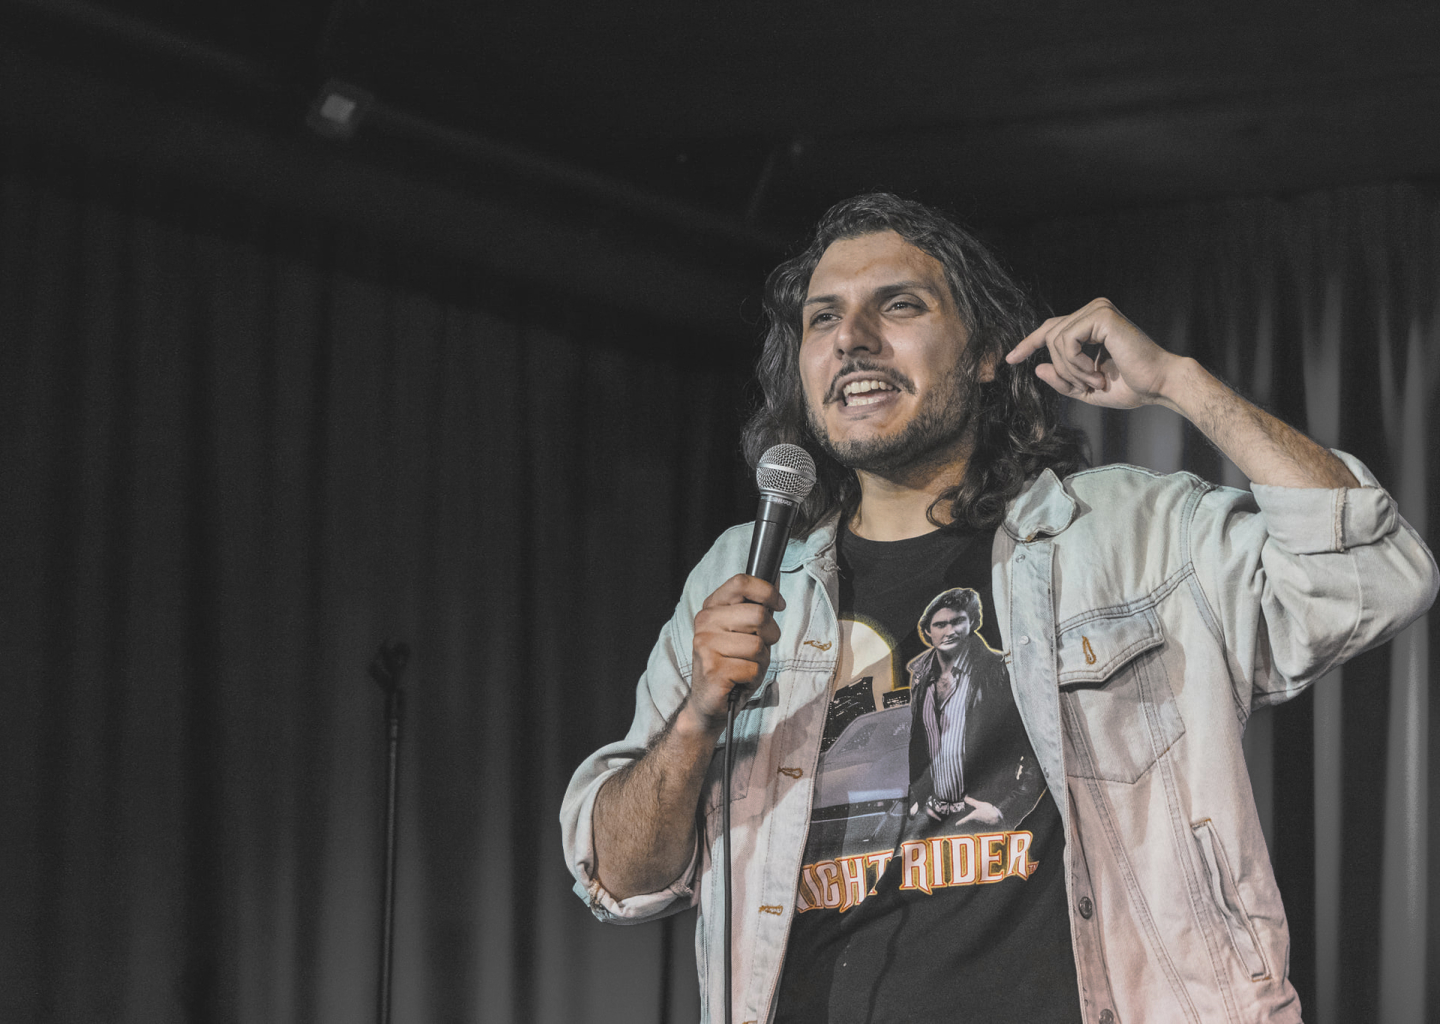
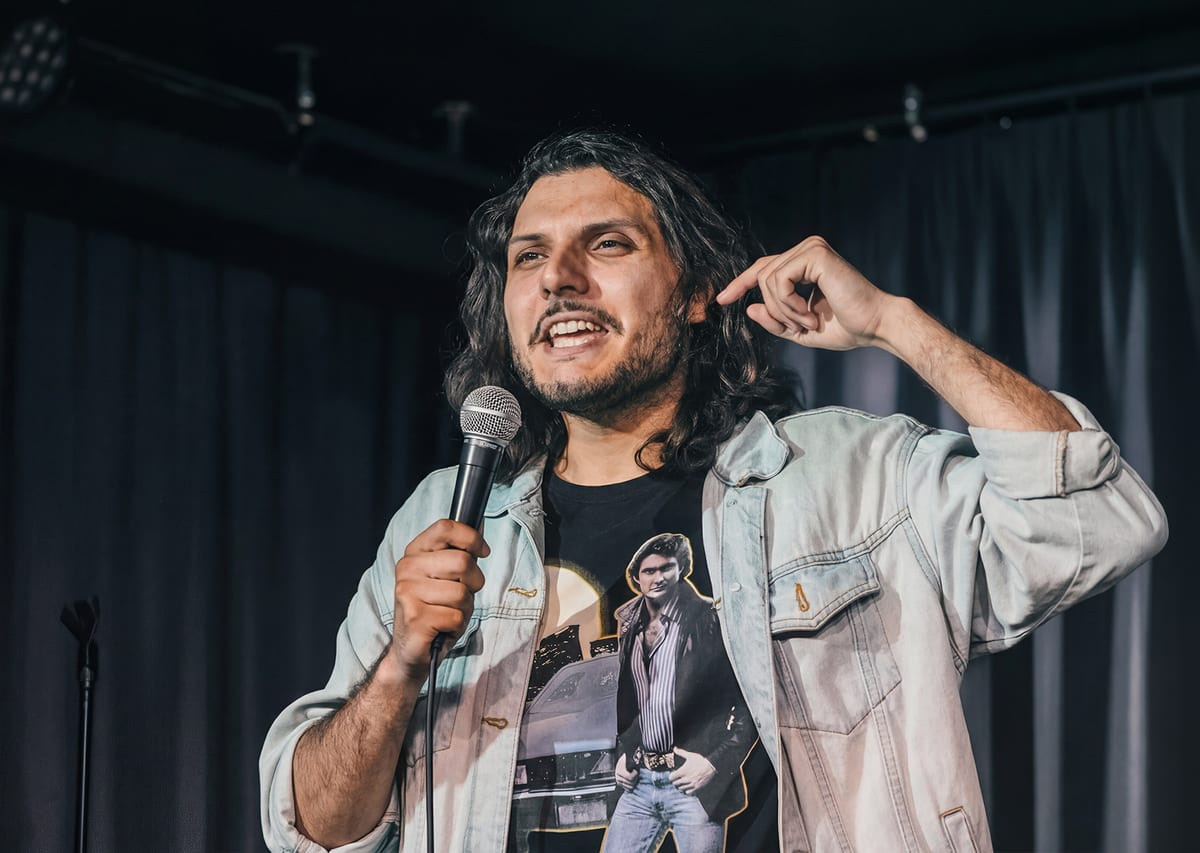
Екран успіху, оптимізація фото, секція «про Єгора» на адаптивах
- checkout: повний екран успіху (номер замовлення + email-підтвердження),
  прокрутка нагору при показі
- сольники: на планшеті картка 2-колонкова (постер зліва, текст справа), не стек
- статистика: 3 показники в один рядок рівними колонками (телефон + планшет)
- хедер/контакти: дрібні мобільні фікси (раніше)
- фото egor-hero: оптимізовано (1.5МБ → 100КБ), прибрано ч/б фільтр (кольорове),
  лишили лише jpg
- секція «про Єгора» (планшет): більший відступ фото↔текст, фото центроване,
  біо й статистика — на всю ширину

diff --git a/css/style.css b/css/style.css
@@ -589,18 +589,27 @@ button { font: inherit; color: inherit; background: none; border: none; cursor: 
   display: flex; gap: 12px; flex-wrap: wrap;
 }
 
-/* мобільний фолбек: вертикальний стек */
+/* планшет/мобільний: горизонтальна листалка стає вертикальним списком карток */
 @media (max-width: 899px) {
   .specials__track {
     flex-direction: column;
     width: auto;
     padding-inline: 24px;
   }
+  .specials__progress { display: none; }
+  /* піни нема, тож відступ перед листалкою дає сам padding */
+  .specials { padding-top: clamp(72px, 11vh, 104px); padding-bottom: 90px; }
+}
+
+/* планшет: картка лишається 2-колонковою (постер зліва, текст справа) і заповнює всю ширину */
+@media (min-width: 641px) and (max-width: 899px) {
+  .card { grid-template-columns: minmax(0, 0.9fr) minmax(0, 1fr); }
+}
+
+/* телефон: вертикальний стек усередині картки (постер зверху, текст знизу) */
+@media (max-width: 640px) {
   .card { grid-template-columns: 1fr; }
   .card__poster { max-width: 420px; }
-  .specials__progress { display: none; }
-  /* мобільний: піна нема, тож більший відступ перед листалкою дає сам padding */
-  .specials { padding-top: clamp(72px, 11vh, 104px); padding-bottom: 90px; }
 }
 
 /* ---------- про Єгора ---------- */
@@ -644,11 +653,8 @@ button { font: inherit; color: inherit; background: none; border: none; cursor: 
   aspect-ratio: 4 / 5;
   object-fit: cover;
   object-position: 60% 20%;
-  filter: grayscale(1) contrast(1.05);
-  transition: filter 0.7s var(--ease-out);
   border-radius: 2px;
 }
-.about__photo:hover img { filter: grayscale(0) contrast(1); }
 .about__photo-frame {
   position: absolute; inset: 0;
   border: 1px solid var(--yellow);
@@ -686,8 +692,18 @@ button { font: inherit; color: inherit; background: none; border: none; cursor: 
   color: var(--muted);
 }
 @media (max-width: 860px) {
-  .about__grid { grid-template-columns: 1fr; }
+  /* одна колонка: фото зверху, текст знизу — більший вертикальний відступ між ними */
+  .about__grid { grid-template-columns: 1fr; row-gap: clamp(72px, 12vw, 100px); }
   .about__photo { max-width: 460px; }
+  /* біо й статистика — на всю ширину текстового блока */
+  .about__bio { max-width: none; }
+  /* 3 показники в один рядок рівними колонками на всю ширину; довгі підписи переносяться */
+  .about__stats { gap: clamp(12px, 2.5vw, 24px); flex-wrap: nowrap; }
+  .about__stats li { flex: 1 1 0; min-width: 0; }
+}
+/* планшет: фото центруємо, текстовий блок лишаємо на всю ширину */
+@media (min-width: 601px) and (max-width: 860px) {
+  .about__photo { justify-self: center; }
 }
 
 /* ---------- тур ---------- */
@@ -1312,7 +1328,18 @@ button { font: inherit; color: inherit; background: none; border: none; cursor: 
 .checkout__done-mark { width: 72px; height: 72px; border-radius: 50%; background: var(--yellow); color: #000; display: grid; place-items: center; font-size: 2rem; font-weight: 800; }
 .checkout__done h2 { font-family: var(--font-display); font-weight: 800; font-size: clamp(1.6rem, 4vw, 2.4rem); text-transform: uppercase; }
 .checkout__done p { color: var(--muted); max-width: 520px; line-height: 1.6; }
+.checkout__done b { color: var(--white); font-family: var(--font-display); font-weight: 600; }
+.checkout__done .checkout__done-lead { color: var(--white); }
+.checkout__done .checkout__done-email {
+  display: inline-flex; align-items: center; justify-content: center; flex-wrap: wrap; gap: 4px 10px;
+  max-width: 100%; text-align: center;
+  padding: 12px 22px; background: var(--bg-2); border: 1px solid var(--line); border-radius: 999px;
+  color: var(--muted); font-size: 0.92rem;
+}
+.checkout__done-email b { overflow-wrap: anywhere; }
+.checkout__done-email__ic { color: var(--yellow); font-size: 1.05rem; line-height: 1; }
 .checkout__done-actions { display: flex; gap: 14px; flex-wrap: wrap; justify-content: center; margin-top: 10px; }
+.checkout__done .checkout__done-note { font-size: 0.76rem; color: var(--muted); opacity: 0.55; margin-top: 2px; }
 @media (max-width: 820px) {
   .checkout { grid-template-columns: 1fr; }
   /* кнопка тепер у сайдбарі — лишаємо форму зверху, сайдбар (з кнопкою) знизу */

diff --git a/js/store.js b/js/store.js
@@ -392,20 +392,27 @@
       '</form>';
   }
 
-  function renderCheckoutDone() {
+  function renderCheckoutDone(order) {
     var root = document.querySelector("[data-checkout-page]");
     if (!root) return;
     root.dataset.done = "1";
+    var num = order && order.num ? order.num : "";
+    var email = (order && order.email) || (user && user.email) || "";
     root.innerHTML =
       '<div class="checkout__done">' +
       '  <div class="checkout__done-mark">✓</div>' +
-      '  <h2>Замовлення прийнято!</h2>' +
-      '  <p>Дякуємо! Сольники додано у ваш кабінет — дивіться їх у розділі «Сольники». (Концепт — реальної оплати немає.)</p>' +
+      '  <h2>Дякуємо за покупку!</h2>' +
+      '  <p class="checkout__done-lead">Оплата пройшла успішно' + (num ? ', замовлення <b>№' + num + "</b> оформлено" : "") + ".</p>" +
+      (email ? '  <p class="checkout__done-email"><span class="checkout__done-email__ic" aria-hidden="true">✉</span>Підтвердження надіслали на <b>' + email + "</b></p>" : "") +
+      '  <p>Куплені сольники вже у вашому кабінеті — у розділі «Сольники».</p>' +
       '  <div class="checkout__done-actions">' +
-      '    <a class="btn btn--solid" data-hover href="/account">До кабінету</a>' +
+      '    <a class="btn btn--solid" data-hover href="/account">Перейти в кабінет</a>' +
       '    <a class="btn btn--ghost" data-hover href="/">На головну</a>' +
       '  </div>' +
+      '  <p class="checkout__done-note">Концепт — оплата демонстраційна.</p>' +
       '</div>';
+    // прокрутити нагору, щоб одразу побачити підтвердження (а не лишитись унизу, де була кнопка)
+    window.scrollTo(0, 0);
   }
 
   /* ============================================================
@@ -461,9 +468,9 @@
       e.preventDefault();
       var buyer = { name: form.name.value.trim(), email: form.email.value.trim() };
       if (!isLoggedIn()) login({ name: buyer.name, displayName: buyer.name, email: buyer.email, provider: "guest" });
-      addOrder(buyer);   // зберегти замовлення (читає кошик) ДО очищення
+      var order = addOrder(buyer);   // зберегти замовлення (читає кошик) ДО очищення
       clearCart();
-      renderCheckoutDone();
+      renderCheckoutDone(order);
       return;
     }
     if (form.matches("[data-profile-form]")) {

diff --git a/index.html b/index.html
@@ -219,7 +219,8 @@
       <div class="about__bgtext" id="aboutBgText" aria-hidden="true">ШАТАЙЛО&ensp;ШАТАЙЛО&ensp;ШАТАЙЛО</div>
       <div class="container about__grid">
         <div class="about__photo" id="aboutPhoto">
-          <img src="assets/egor-hero.jpg" alt="Єгор Шатайло на сцені з мікрофоном">
+          <img src="assets/egor-hero.jpg" alt="Єгор Шатайло на сцені з мікрофоном"
+               loading="lazy" decoding="async">
           <span class="about__photo-frame" aria-hidden="true"></span>
         </div>
         <div class="about__text">
